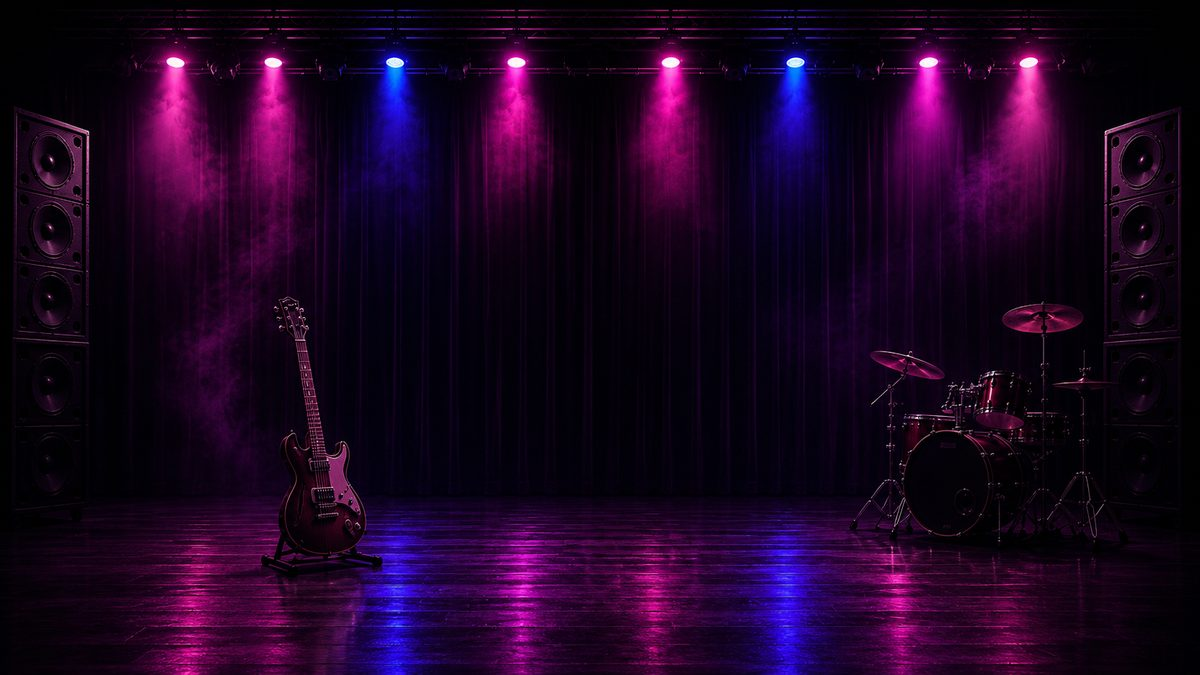
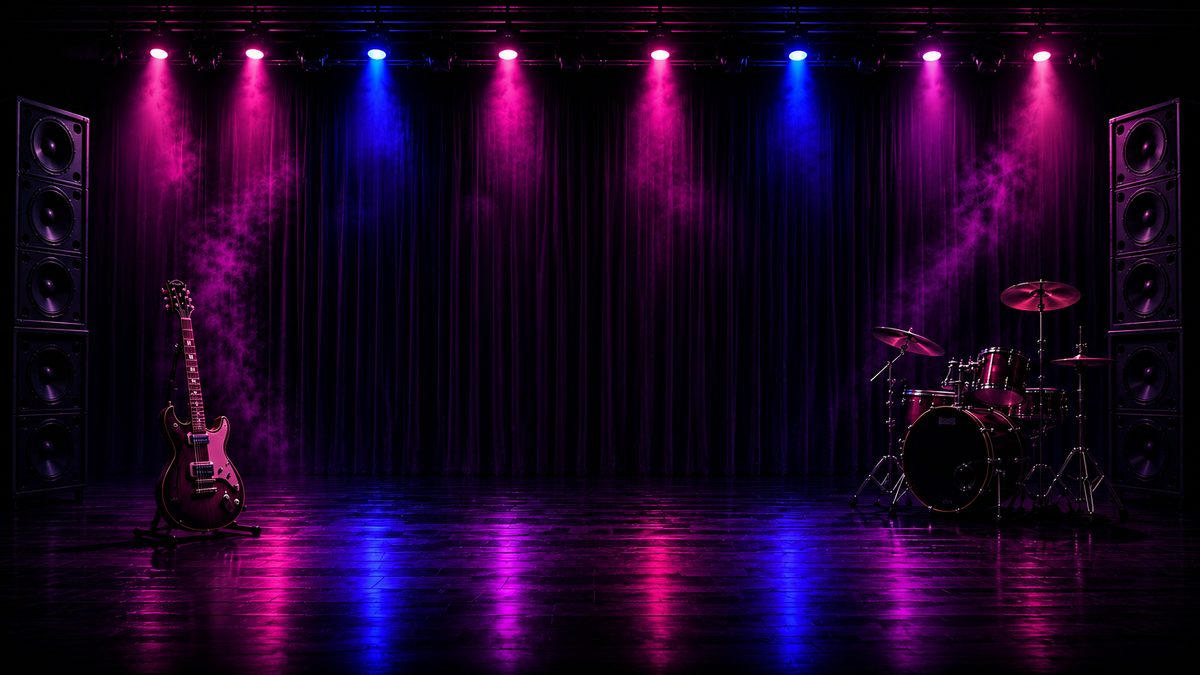
SFS Music: updated stage header (guitar moved) v12

diff --git a/index.html b/index.html
@@ -867,7 +867,7 @@ function numShelf(title,arr){ if(arr.length<1) return ''; var tiles=arr.map(func
 /* ===== views: Play (home) · Explore · My Vaults ===== */
 var curEdition='music', curView='play';
 function setEdition(id){ curEdition=id; var e=edById(id); if(e) document.documentElement.style.setProperty('--accent', e.accent); applyTheme(id,true); render(); var app=document.getElementById('app'); if(app){ app.classList.remove('edin'); void app.offsetWidth; app.classList.add('edin'); } window.scrollTo(0,0); }
-var THEME={music:{hdr:"music-header.jpg?v=11",logo:"music-logo.png?v=3",floor:"music-floor.jpg?v=3",fb:0.3},filmtv:{hdr:"movies-header.jpg?v=1",logo:"movies-logo.png?v=1",floor:"movies-floor.jpg?v=1",fb:0.55},sports:{hdr:"sports-header.jpg?v=1",logo:"sports-logo.png?v=1",floor:"sports-floor.jpg?v=1",fb:0.3}};
+var THEME={music:{hdr:"music-header.jpg?v=12",logo:"music-logo.png?v=3",floor:"music-floor.jpg?v=3",fb:0.3},filmtv:{hdr:"movies-header.jpg?v=1",logo:"movies-logo.png?v=1",floor:"movies-floor.jpg?v=1",fb:0.55},sports:{hdr:"sports-header.jpg?v=1",logo:"sports-logo.png?v=1",floor:"sports-floor.jpg?v=1",fb:0.3}};
 var _hb=1,_lg=1,_fl=1;
 function applyTheme(id,animate){ var t=THEME[id]||THEME.music; var hb=1-_hb,h=document.getElementById('hdr'+hb),ho=document.getElementById('hdr'+_hb); if(h){h.style.backgroundImage="url('"+t.hdr+"')";h.style.opacity='1';} if(ho)ho.style.opacity='0'; _hb=hb; var lg=1-_lg,l=document.getElementById('logo'+lg),lo=document.getElementById('logo'+_lg); if(l){l.src=t.logo;l.style.opacity='1'; if(animate){l.classList.remove('pulse');void l.offsetWidth;l.classList.add('pulse');}} if(lo)lo.style.opacity='0'; _lg=lg; var fl=1-_fl,fe=document.getElementById('floor'+fl),foe=document.getElementById('floor'+_fl); if(fe){fe.style.backgroundImage="url('"+t.floor+"')";fe.style.opacity='1';} if(foe)foe.style.opacity='0'; _fl=fl; var fbg=document.getElementById('floorbg'); if(fbg) fbg.style.filter='brightness('+(t.fb||0.3)+')'; }
 function preloadThemes(){ for(var k in THEME){ (function(t){['hdr','logo','floor'].forEach(function(p){var im=new Image();im.src=t[p];});})(THEME[k]); } }

diff --git a/sw.js b/sw.js
@@ -1,4 +1,4 @@
-var CACHE='sfs-v36';
+var CACHE='sfs-v37';
 var ASSETS=['/','/index.html','/play.html','/manifest.webmanifest','/icon-192.png','/icon-512.png','/apple-touch-icon.png'];
 self.addEventListener('install',function(e){ e.waitUntil(caches.open(CACHE).then(function(c){return c.addAll(ASSETS).catch(function(){});}).then(function(){return self.skipWaiting();})); });
 self.addEventListener('activate',function(e){ e.waitUntil(caches.keys().then(function(keys){return Promise.all(keys.map(function(k){if(k!==CACHE)return caches.delete(k);}));}).then(function(){return self.clients.claim();})); });
